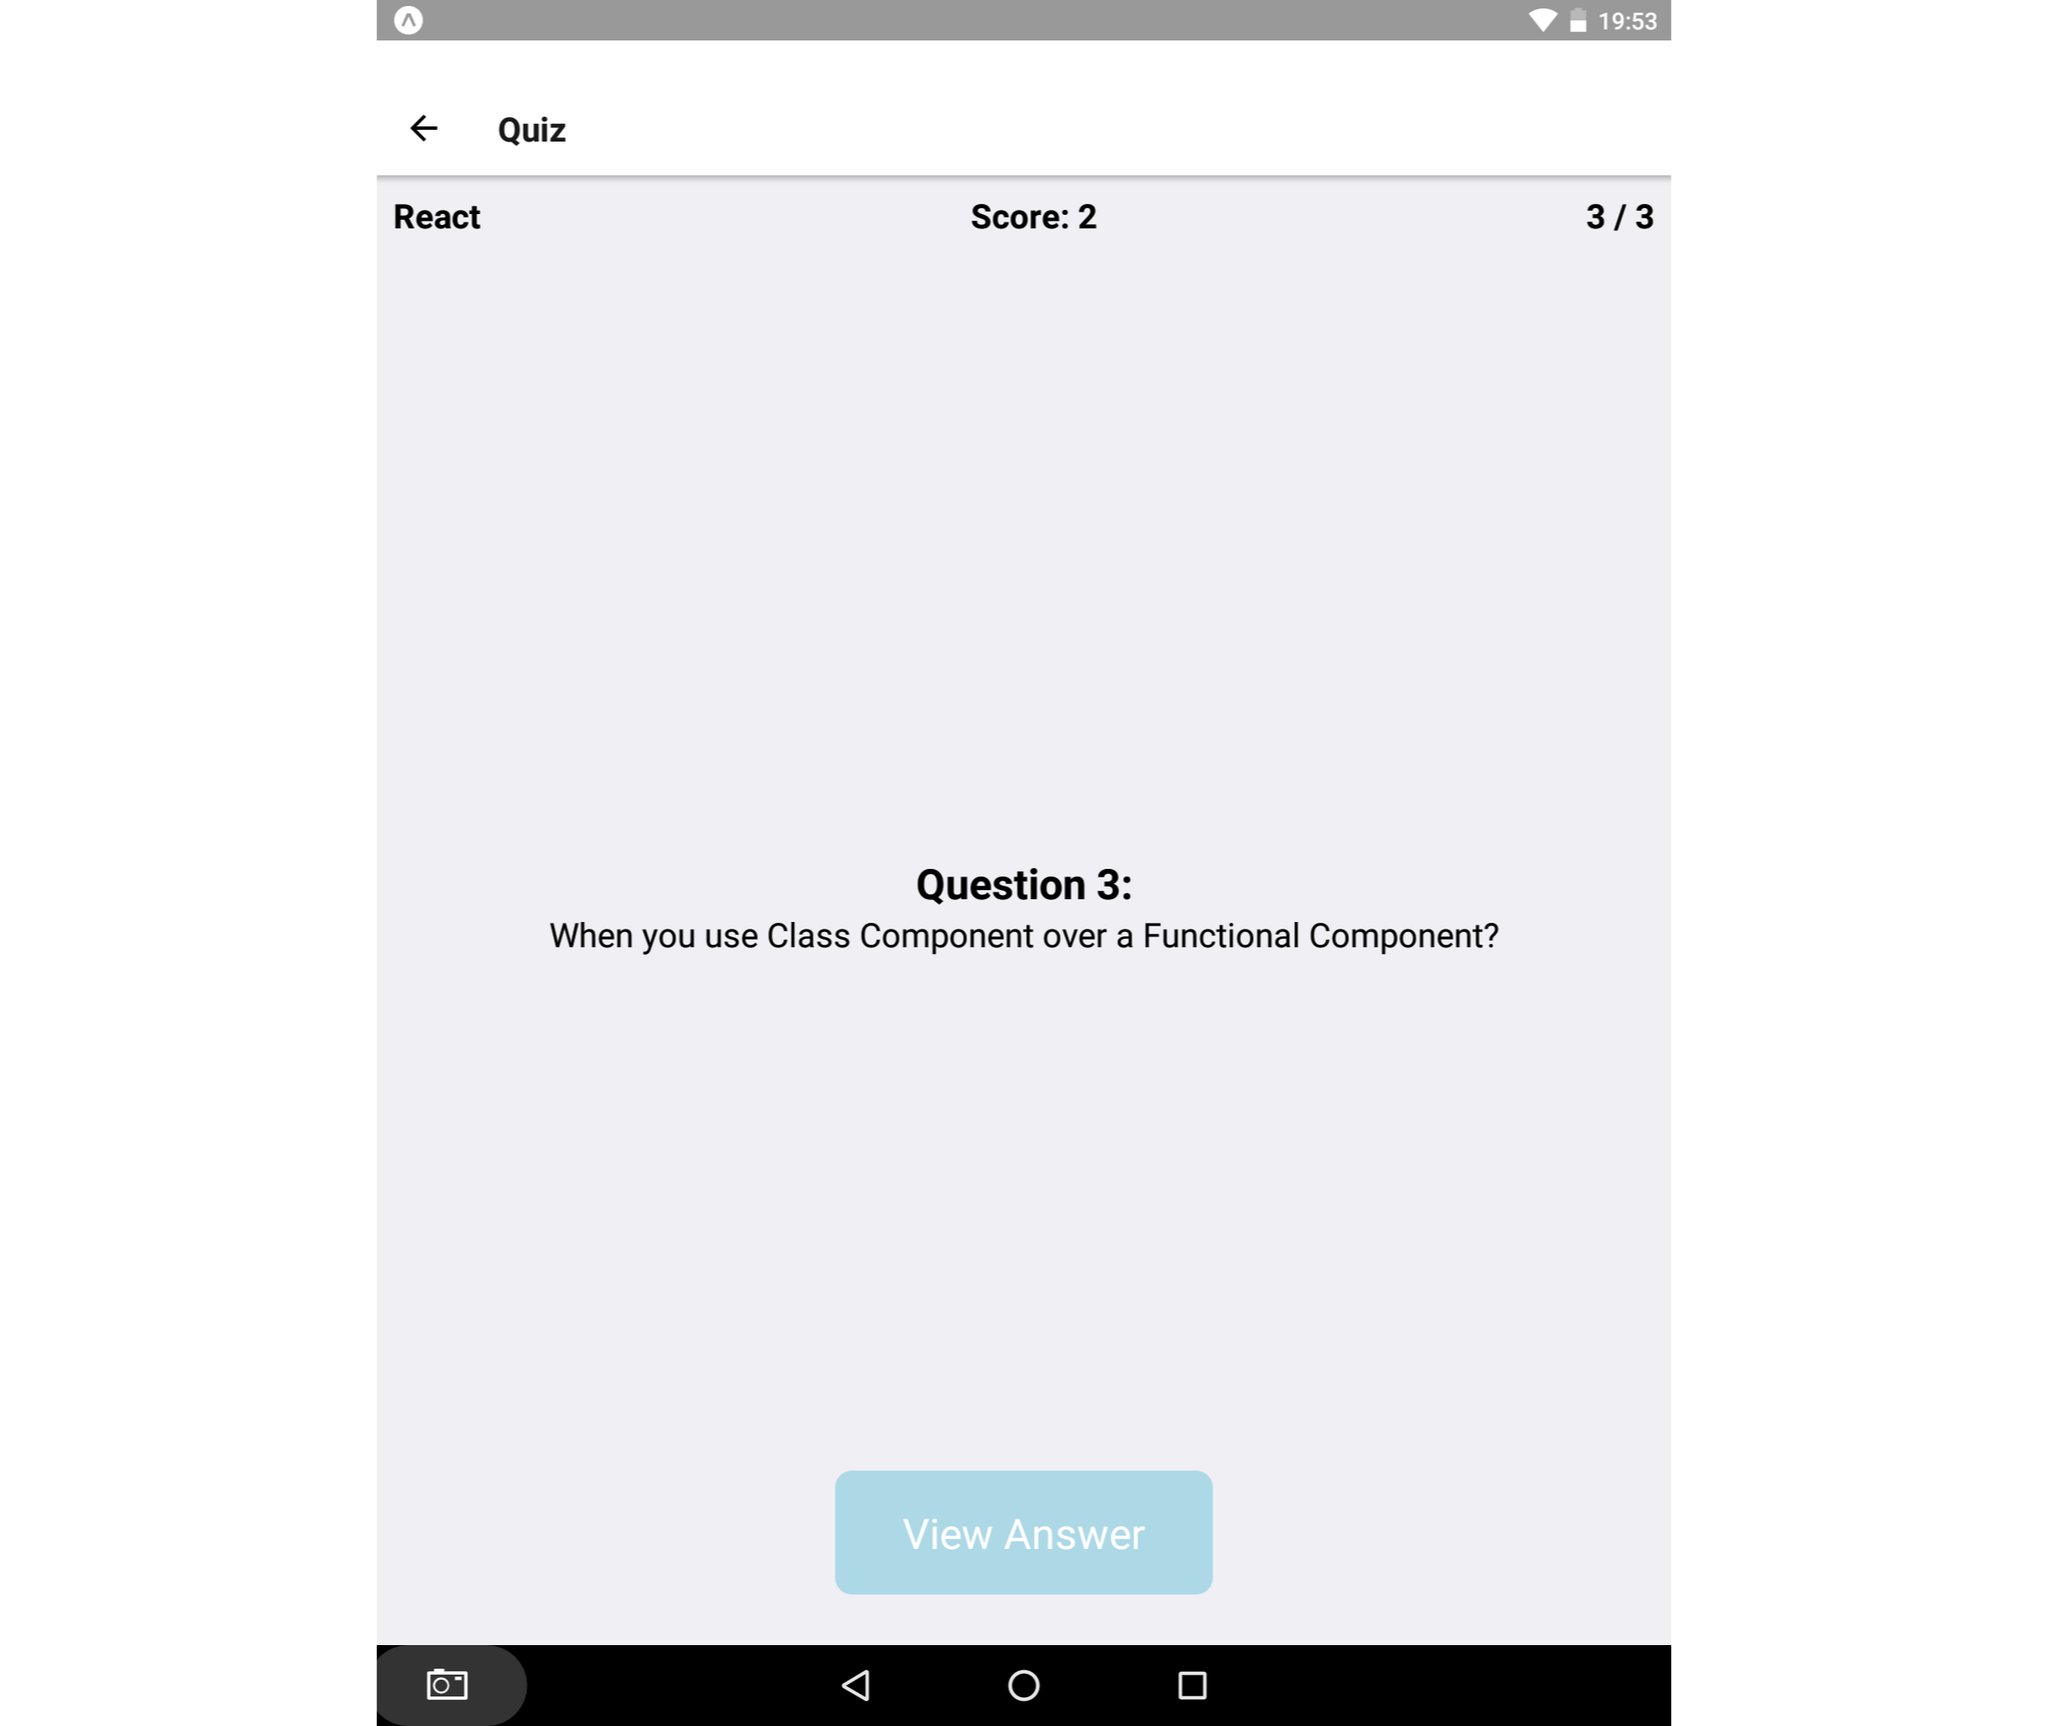
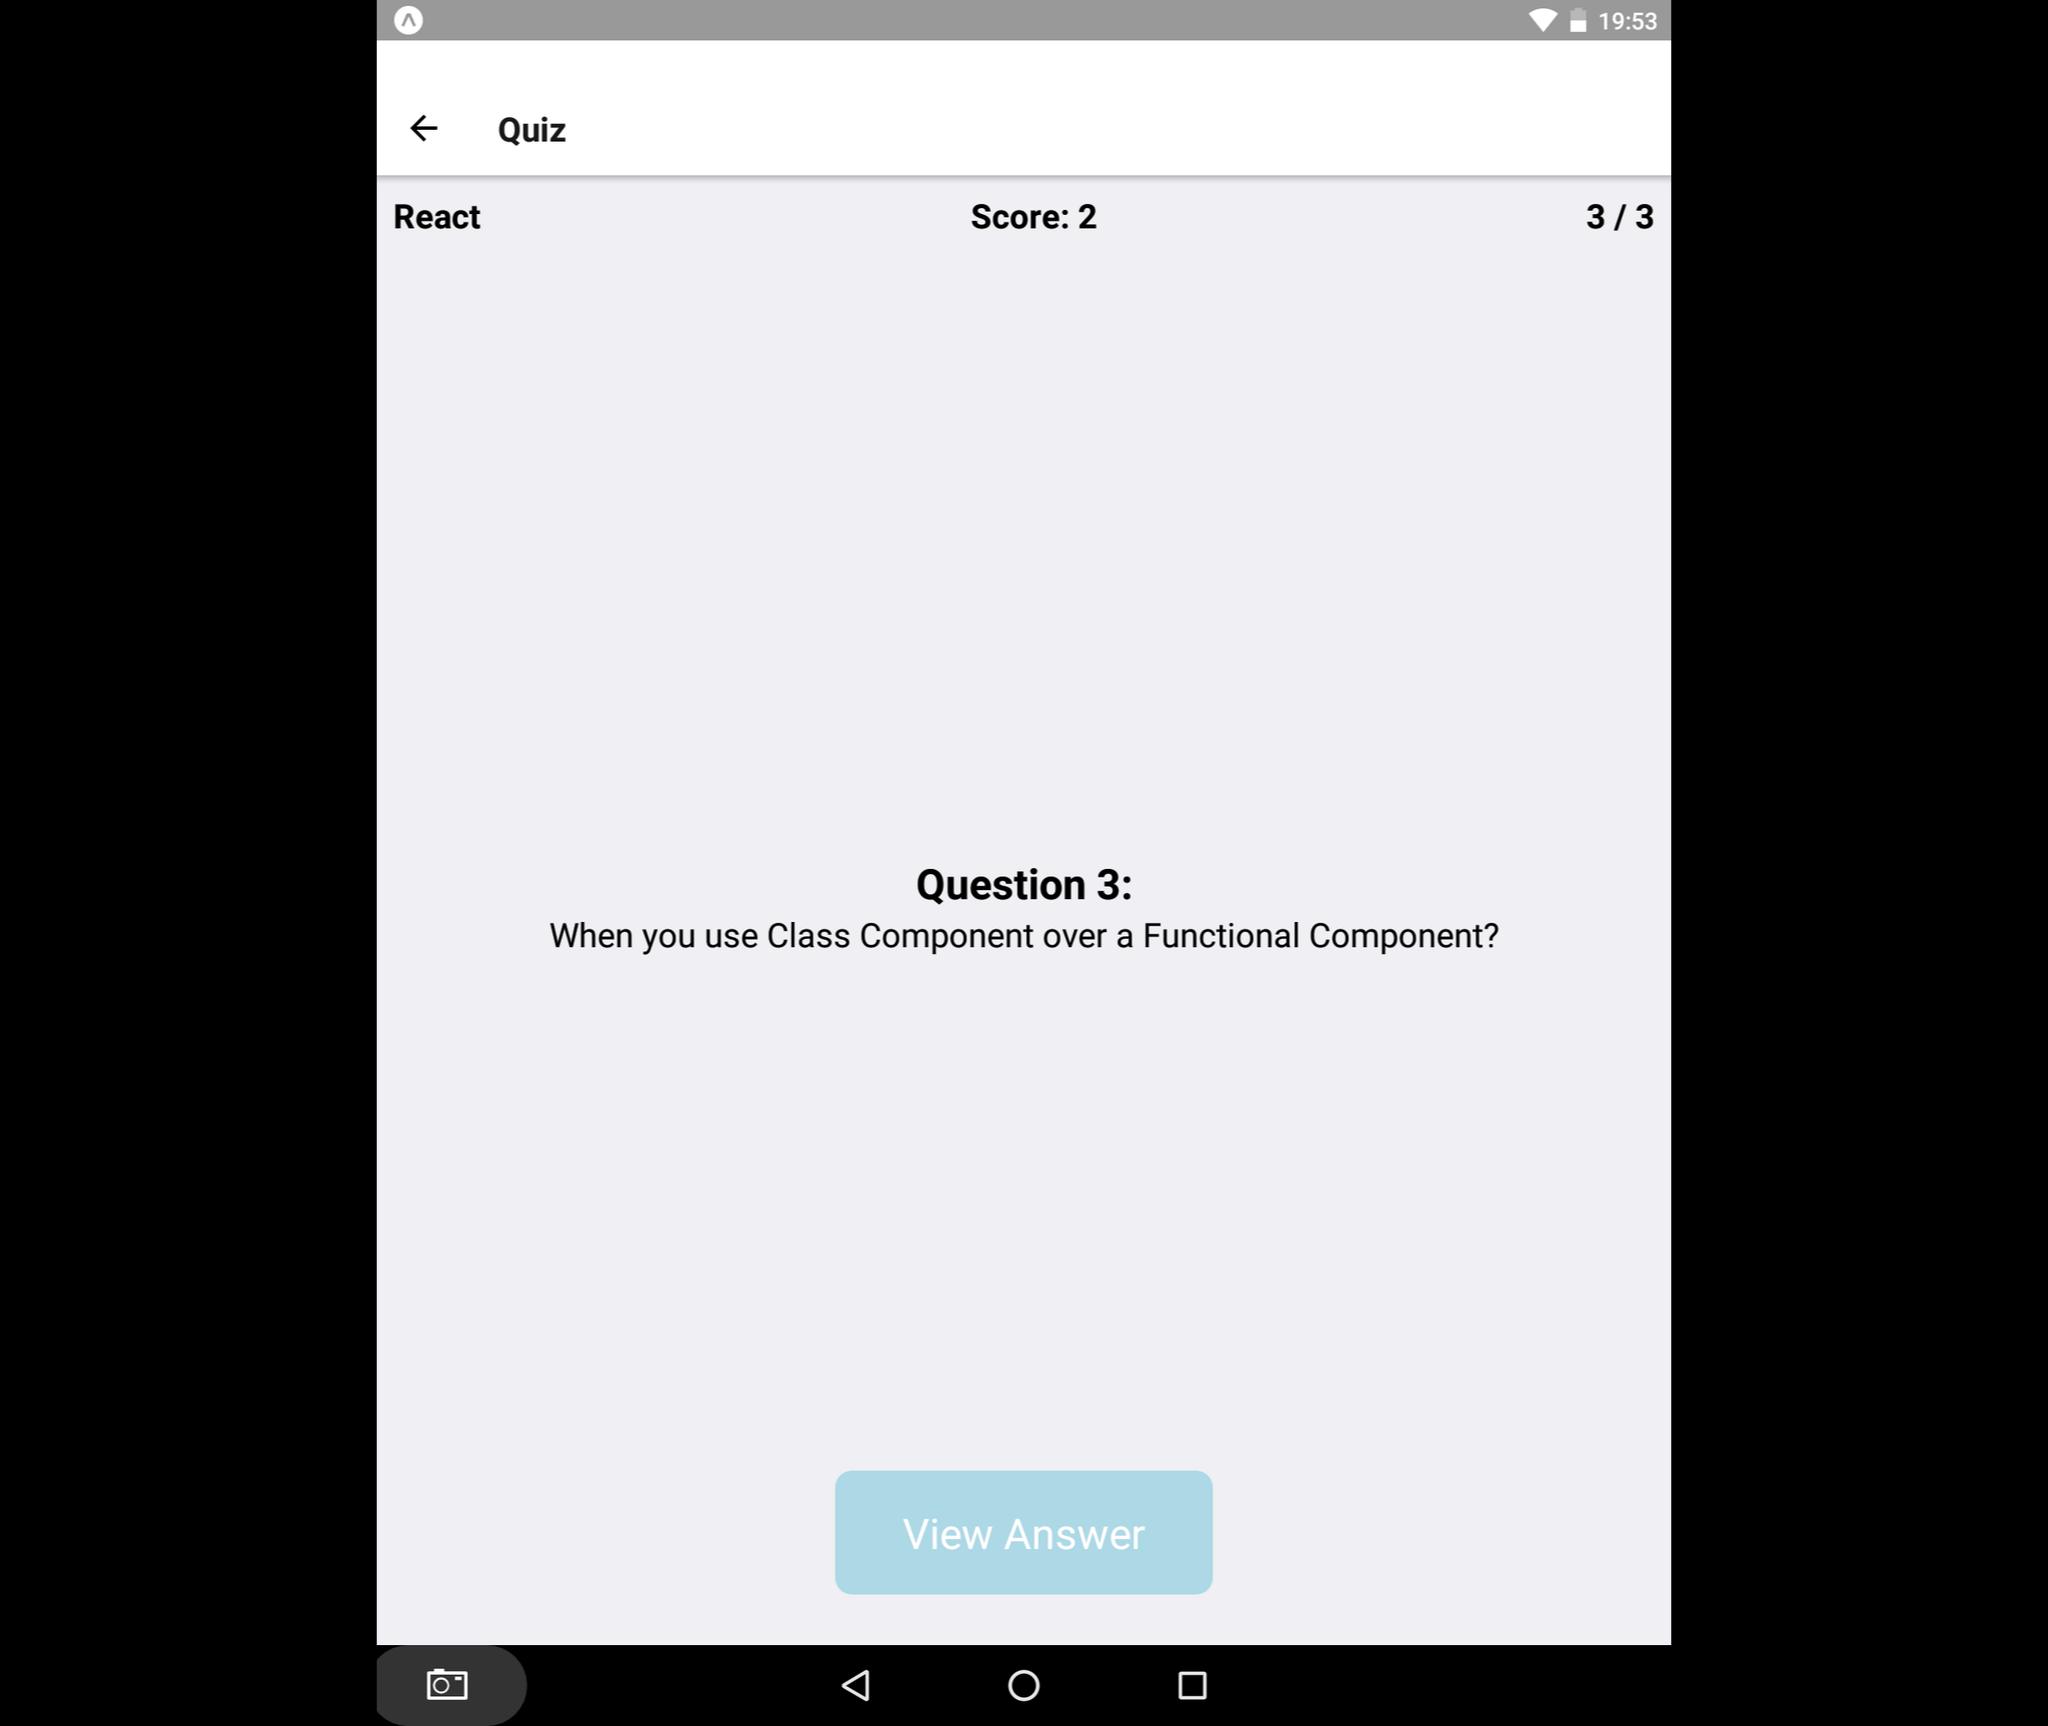
Compress Flashcards imagem.

diff --git a/index.html b/index.html
@@ -33,7 +33,7 @@
       <section class="portfolio">
 
         <div class="card">
-          <img src="img/flashcards2.png" alt="Captura de tela de Flashcards">
+          <img src="img/flashcards.png" alt="Captura de tela de Flashcards">
           <div class="card-hover">
             <div class="card-hover-content">
               <h3>Flashcards Móveis</h3>
@@ -46,7 +46,7 @@
           <h3>Flashcards Móveis</h3>
           <h4>Cliente: <span>Pessoal</span></h4>
           <h4>Data: <span>20 de Março de 2018</span></h4>
-          <img src="img/flashcards2.png" alt="Captura de tela de Flashcards">
+          <img src="img/flashcards.png" alt="Captura de tela de Flashcards">
           <h4>Descrição</h4>
           <p class="descricao">
             Este projeto pertence ao programa <a href="https://br.udacity.com/course/react-nanodegree--nd019">Nanodegree Desenvolvedor React</a>. O propósito deste projeto é desenvolver um aplicativo para dispositivos Android utilizando <a href="https://facebook.github.io/react-native/">React Native</a> que permite que usuários criem diferentes categorias de flashcards (baralhos), adicionar cartas contendo uma pergunta e sua resposta a esses baralhos, jogar o quiz e receber uma pontuação.
